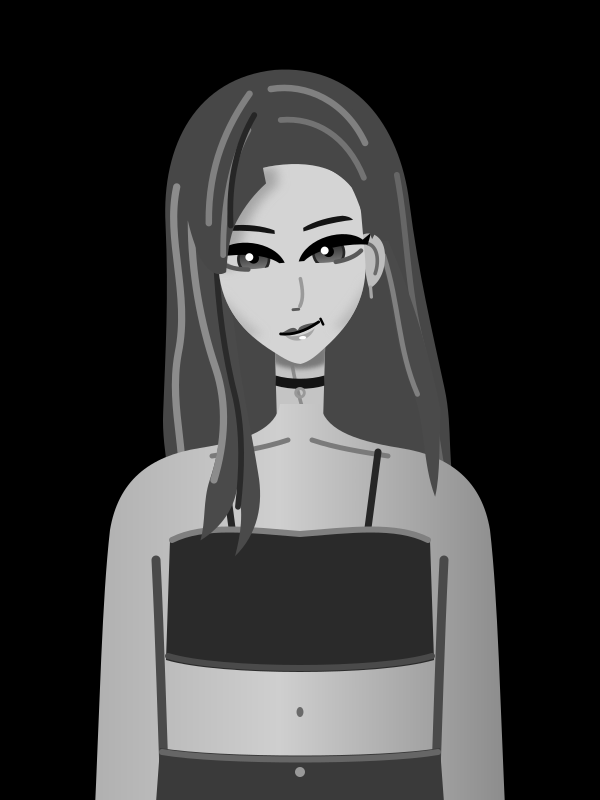
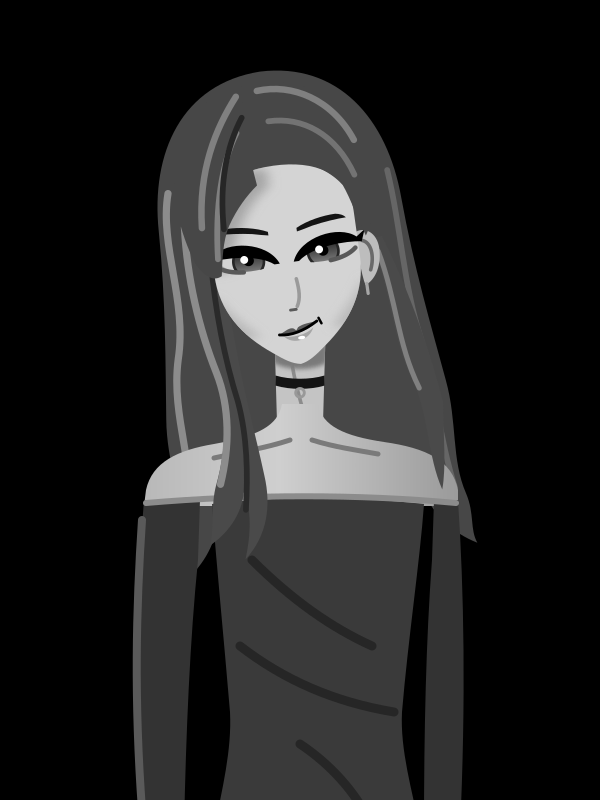
wallpaper: sultry style (default) — glam head in an off-shoulder evening dress
make_sultry.py builds sultry.svg from glam.svg (head tilted 8 degrees) plus a
fitted long-sleeve off-shoulder dress: sloped shoulders with rounded caps,
sleeves separated from the bodice by negative space, a real waist, mid-grey
fabric with a light neckline binding and wide drape folds. Non-explicit.

Changed region(s): [[0.15, 0.0938, 0.84, 1.0], [0.57, 0.375, 0.6, 0.4062], [0.3, 0.125, 0.33, 0.1562]]

diff --git a/plasma/wallpapers/org.nothing.dots/contents/ui/GlyphField.qml b/plasma/wallpapers/org.nothing.dots/contents/ui/GlyphField.qml
@@ -26,11 +26,11 @@ Item {
 
     // the character
     property bool showFigure: true
-    property string figureStyle: "casual" // "casual" (waist-up, relaxed) | "glam" (portrait) | "cute" — wallpapers/glyphgirl/*.svg
+    property string figureStyle: "sultry" // "sultry" (elegant dress) | "casual" | "glam" (portrait) | "cute" — wallpapers/glyphgirl/*.svg
     property real figureX: 0.75           // horizontal centre, fraction of width
     property real figureScale: 1.15       // height, fraction of screen height
     // fine grid per style; 8 and 6 divide the 24 px field and share its origin (no moire)
-    readonly property int figurePitch: _style === "glam" ? 8 : _style === "casual" ? 6 : 5
+    readonly property int figurePitch: _style === "glam" ? 8 : _style === "cute" ? 5 : 6
     readonly property rect figRect: {
         const h = Math.round(figureScale * height), w = Math.round(h * 0.75)
         // bottom-aligned; when taller than the screen, keep the ahoge ~2 % below the top edge
@@ -101,14 +101,15 @@ Item {
     // red bead per style, in canvas uv after the head tilt (see the svg sources)
     readonly property point clipUV: _style === "cute" ? Qt.point(228.0 / 600, 214.4 / 800)     // hair-clip end
                                   : _style === "glam" ? Qt.point(399.67 / 600, 403.02 / 800)   // earring
-                                  : Qt.point(371.76 / 600, 301.37 / 800)                       // earring (casual)
+                                  : _style === "casual" ? Qt.point(371.76 / 600, 301.37 / 800) // earring (casual)
+                                  : Qt.point(368.76 / 600, 297.69 / 800)                       // earring (sultry)
     readonly property point redPos: showFigure
         ? Qt.point(figRect.x + (0.5 + (clipUV.x - 0.5) * (1 + breathe)) * figRect.width,
                    figRect.y + (1 + (clipUV.y - 1) * (1 + breathe)) * figRect.height)
         : Qt.point((Math.floor((width - 216) / pitch) + 0.5) * pitch,
                    (Math.floor((height - 168) / pitch) + 0.5) * pitch)
     readonly property real redR: showFigure ? Math.max(4.5, figRect.height / 800 * 5.5) : 0.5 * dotRatio * pitch
-    readonly property string _style: ["cute", "glam", "casual"].includes(figureStyle) ? figureStyle : "casual"
+    readonly property string _style: ["cute", "glam", "casual", "sultry"].includes(figureStyle) ? figureStyle : "sultry"
 
     readonly property bool useShader: GraphicsInfo.api !== GraphicsInfo.Software
                                       && shader.status !== ShaderEffect.Error

diff --git a/plasma/wallpapers/org.nothing.dots/contents/ui/config.qml b/plasma/wallpapers/org.nothing.dots/contents/ui/config.qml
@@ -19,8 +19,8 @@ Kirigami.FormLayout {
     property bool cfg_PointerGlowDefault: false
     property alias cfg_ShowCharacter: character.checked
     property bool cfg_ShowCharacterDefault: true
-    property string cfg_CharacterStyle: "casual"
-    property string cfg_CharacterStyleDefault: "casual"
+    property string cfg_CharacterStyle: "sultry"
+    property string cfg_CharacterStyleDefault: "sultry"
     property alias cfg_CharacterPosition: charPos.value
     property real cfg_CharacterPositionDefault: 0.75
     property alias cfg_CharacterScale: charScale.value
@@ -50,8 +50,8 @@ Kirigami.FormLayout {
     QQC2.CheckBox { id: character; Kirigami.FormData.label: "Character:"; text: "Dot-matrix anime character" }
     QQC2.ComboBox {
         Kirigami.FormData.label: "Style:"
-        model: ["Casual", "Glam", "Cute"]
-        readonly property var values: ["casual", "glam", "cute"]
+        model: ["Sultry", "Casual", "Glam", "Cute"]
+        readonly property var values: ["sultry", "casual", "glam", "cute"]
         currentIndex: Math.max(0, values.indexOf(root.cfg_CharacterStyle))
         onActivated: index => root.cfg_CharacterStyle = values[index]
         enabled: character.checked

diff --git a/wallpapers/glyphgirl/make_sultry.py b/wallpapers/glyphgirl/make_sultry.py
@@ -1,0 +1,17 @@
+#!/usr/bin/env python3
+"""sultry.svg = the glam head (scaled 0.72, tilted 8 deg chin-down) + an elegant off-shoulder dress."""
+import os
+HERE = os.path.dirname(os.path.abspath(__file__))
+S = 'translate(84,11.2) scale(0.72) '
+s = open(os.path.join(HERE, "glam.svg")).read()
+s = s.replace('<!-- "Glam" style', '<!-- "Sultry" style (generated by make_sultry.py from glam.svg)\n     ', 1)
+s = s.replace('transform="rotate(-5 300 480)"', 'transform="%srotate(-8 300 480)"' % S)
+s = s.replace('<g id="neck">', '<g id="neck" transform="%s">' % S.strip())
+i = s.index('  <g id="body"'); j = s.index('</g>', i) + 4
+s = s[:i] + open(os.path.join(HERE, "sultry-body.svgfrag")).read().rstrip() + s[j:]
+s = s.replace('    <filter id="soft"', '''    <linearGradient id="skinBody" x1="94" y1="0" x2="506" y2="0" gradientUnits="userSpaceOnUse">
+      <stop offset="0" stop-color="#b0b0b0"/><stop offset="0.45" stop-color="#cfcfcf"/><stop offset="1" stop-color="#8c8c8c"/>
+    </linearGradient>
+    <filter id="soft"''', 1)
+open(os.path.join(HERE, "sultry.svg"), "w").write(s)
+print("ok sultry.svg")

diff --git a/wallpapers/glyphgirl/gen_figure.py b/wallpapers/glyphgirl/gen_figure.py
@@ -1,7 +1,7 @@
 #!/usr/bin/env python3
 """Bake each character style into the two textures the org.nothing.dots shader samples.
 
-styles: cute = girl.svg, glam = glam.svg, casual = casual.svg  ->  figure-<style>.png, figure-<style>-aux.png
+styles: cute = girl.svg, glam = glam.svg, casual = casual.svg, sultry = sultry.svg  ->  figure-<style>.png, figure-<style>-aux.png
 
 figure-*.png    R = luminance, eyes open      G = luminance, eyes closed
                 B = silhouette (coverage)
@@ -24,7 +24,7 @@ from PIL import Image, ImageFilter
 
 HERE = os.path.dirname(os.path.abspath(__file__))
 OUT = os.path.join(HERE, "..", "..", "plasma", "wallpapers", "org.nothing.dots", "contents", "ui")
-STYLES = {"cute": "girl.svg", "glam": "glam.svg", "casual": "casual.svg"}
+STYLES = {"cute": "girl.svg", "glam": "glam.svg", "casual": "casual.svg", "sultry": "sultry.svg"}
 SVG = ""
 W, H = 600, 800          # canvas
 TW, TH = 600, 800        # texture (1 canvas px per texel: 1-dot features survive)
